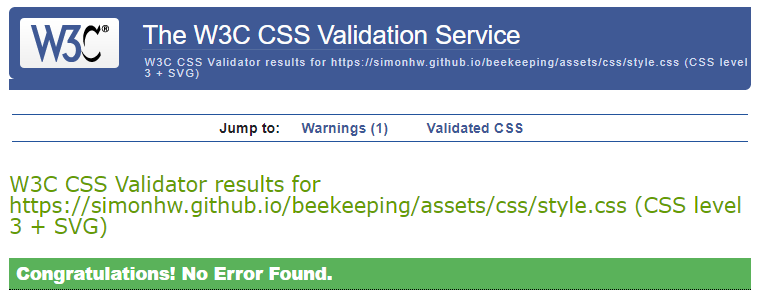
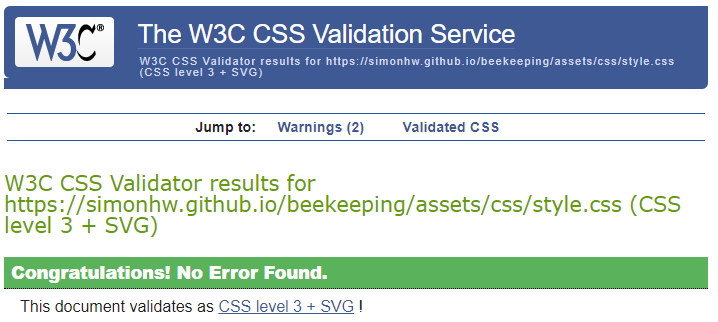
Doc: Update Automated Testing section for CSS file.

diff --git a/README.md b/README.md
@@ -329,13 +329,13 @@ The site was tested on Google Chrome, Edge, and Mozilla Firefox on the desktop, 
 
 ### Automated Testing
 [W3C](https://validator.w3.org/) was used to validate the HTML on all website pages and the CSS stylesheet.
-- [index.html](https://github.com/simonhw/beekeeping/blob/main/assets/images/readme/testing/w3c-index.PNG) - Passed with no errors. The trailing slash in the self-closing <img/> element is flagged as having no effect.
-- [courses.html](https://github.com/simonhw/beekeeping/blob/main/assets/images/readme/testing/w3c-courses.PNG) - Passed with no errors. The trailing slash in the self-closing <img/> element is flagged as having no effect.
-- [shop.html](https://github.com/simonhw/beekeeping/blob/main/assets/images/readme/testing/w3c-shop.PNG) - Passed with no errors. The trailing slash in the self-closing <img/> element is flagged as having no effect.
+- [index.html](https://github.com/simonhw/beekeeping/blob/main/assets/images/readme/testing/w3c-index.PNG) - Passed. Trailing slashes in self-closing `<img/>` elements are flagged as having no effect.
+- [courses.html](https://github.com/simonhw/beekeeping/blob/main/assets/images/readme/testing/w3c-courses.PNG) - Passed. Trailing slashes in self-closing `<img/>` elements are flagged as having no effect.
+- [shop.html](https://github.com/simonhw/beekeeping/blob/main/assets/images/readme/testing/w3c-shop.PNG) - Passed. Trailing slashes in self-closing `<img/>` elements are flagged as having no effect.
 - [form.html](https://github.com/simonhw/beekeeping/blob/main/assets/images/readme/testing/w3c-form.PNG) - Passed.
-- [thankyou.html](https://github.com/simonhw/beekeeping/blob/main/assets/images/readme/testing/w3c-thank-you.PNG)
-- [404.html](https://github.com/simonhw/beekeeping/blob/main/assets/images/readme/testing/w3c-404.PNG)
-- [style.css](https://github.com/simonhw/beekeeping/blob/main/assets/images/readme/testing/w3c-css.PNG) - Passed with no errors.
+- [thankyou.html](https://github.com/simonhw/beekeeping/blob/main/assets/images/readme/testing/w3c-thank-you.PNG) - Passed.
+- [404.html](https://github.com/simonhw/beekeeping/blob/main/assets/images/readme/testing/w3c-404.PNG) - Passed. The trailing slashe in the self-closing `<img/>` element is flagged as having no effect.
+- [style.css](https://github.com/simonhw/beekeeping/blob/main/assets/images/readme/testing/w3c-css.PNG) - Passed with no errors and [two warnings](https://github.com/simonhw/beekeeping/blob/main/assets/images/readme/testing/w3c-css-warnings.PNG). The warnings are related to vendor extensions.
 
 ### Lighthouse
 The Lighthouse feature in Chrome Developer Tools was used to test the performace, accessibility, best practices, and search engine optimisation of the website.
